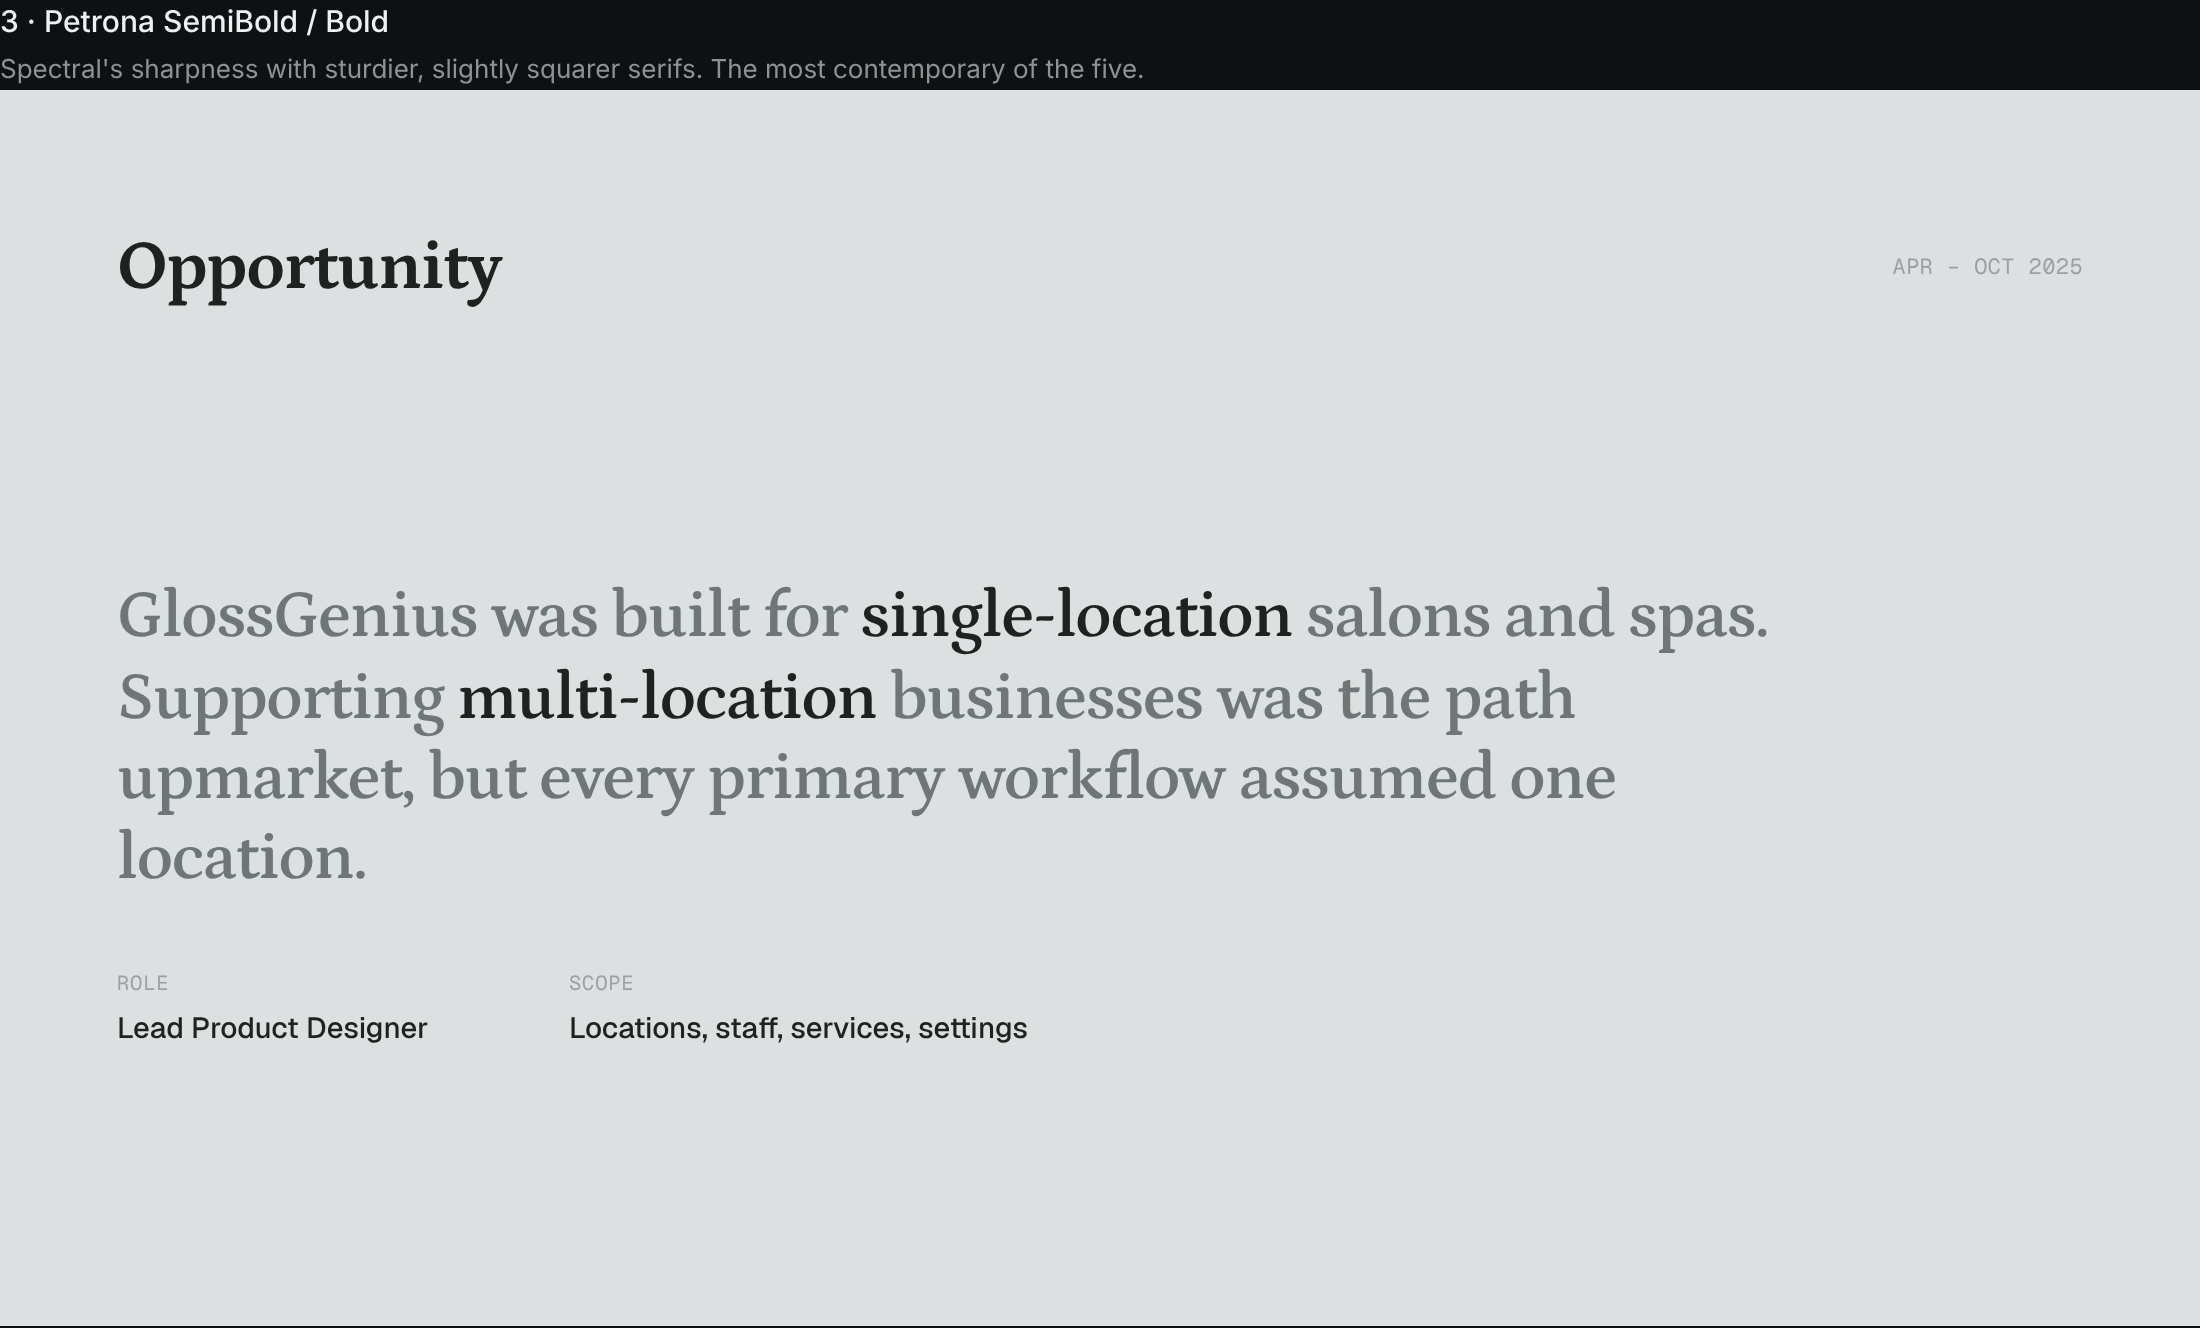
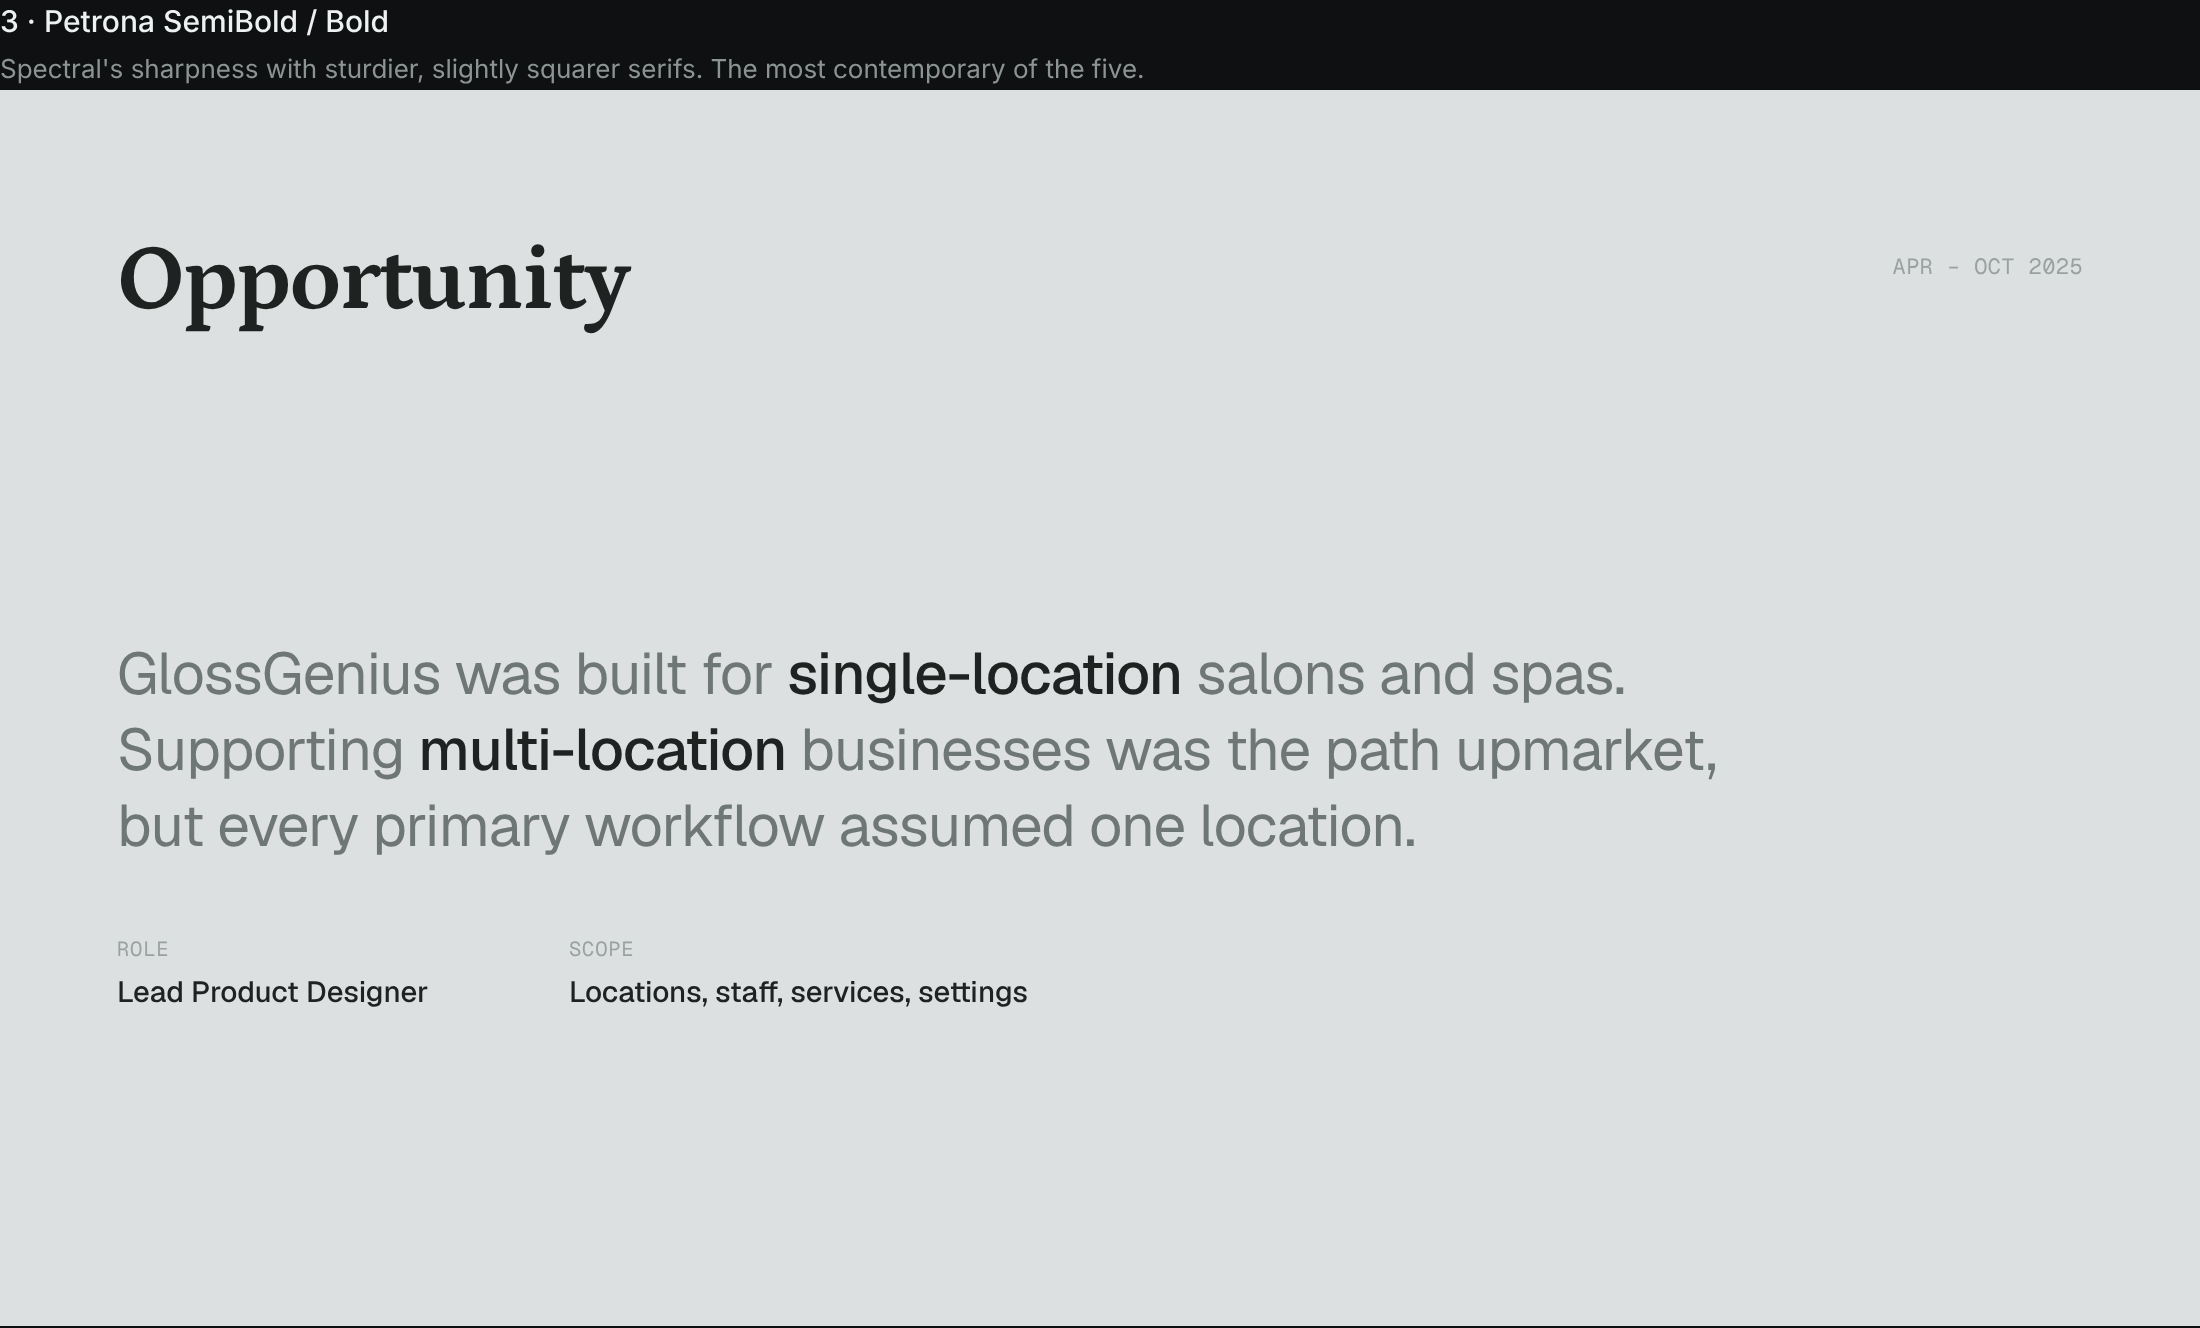
Heavy serif previews: serif titles only, sans body
Claude-Session: https://claude.ai/code/session_01VfeLV8XZ819E3sTS2rx56B

diff --git a/case-study/fonts-serif-3.html b/case-study/fonts-serif-3.html
@@ -14,11 +14,11 @@ body{background:var(--canvas);margin:0;padding-block:40px;padding-left:max(16px,
 .head p{margin:0;font:400 13px/1.4 system-ui,sans-serif;color:#8C9493}
 .slide{container-type:inline-size;background:var(--slide)}
 .stage{--u:calc(100cqw / 1504);aspect-ratio:16/9;padding:calc(var(--u)*96) calc(var(--u)*80) calc(var(--u)*80);display:grid;grid-template-rows:auto 1fr;gap:calc(var(--u)*72);position:relative;color:var(--grey)}
-.title{margin:0;font-family:var(--serif,var(--sans));font-weight:var(--tw,500);font-size:max(18px,calc(var(--u)*48));letter-spacing:-.02em;line-height:1.1;color:var(--ink)}
+.title{margin:0;font-family:var(--serif,var(--sans));font-weight:var(--tw,500);font-size:max(22px,calc(var(--u)*64));letter-spacing:-.02em;line-height:1.1;color:var(--ink)}
 .meta{position:absolute;top:calc(var(--u)*112);right:calc(var(--u)*80);font-family:var(--mono);font-size:max(10px,calc(var(--u)*15));letter-spacing:.02em;color:var(--faint);text-transform:uppercase}
 .body{display:grid;align-content:center;gap:calc(var(--u)*48)}
-.statement{margin:0;font-family:var(--serif,var(--sans));font-weight:var(--sw,400);font-size:max(15px,calc(var(--u)*var(--ss,50)));line-height:1.2;letter-spacing:var(--sls,-.01em);max-width:calc(var(--u)*1160)}
-.statement b{font-weight:var(--bw,inherit);font-style:var(--bs,normal);color:var(--ink)}
+.statement{margin:0;font-family:var(--sans);font-weight:400;font-size:max(15px,calc(var(--u)*40));line-height:1.3;letter-spacing:-.015em;max-width:calc(var(--u)*1160)}
+.statement b{font-weight:500;font-style:var(--bs,normal);color:var(--ink)}
 .people{display:flex;gap:calc(var(--u)*96);flex-wrap:wrap}
 .people div{display:grid;gap:calc(var(--u)*8)}
 .people span{font-family:var(--mono);font-size:max(10px,calc(var(--u)*14));letter-spacing:.04em;text-transform:uppercase;color:var(--faint)}
